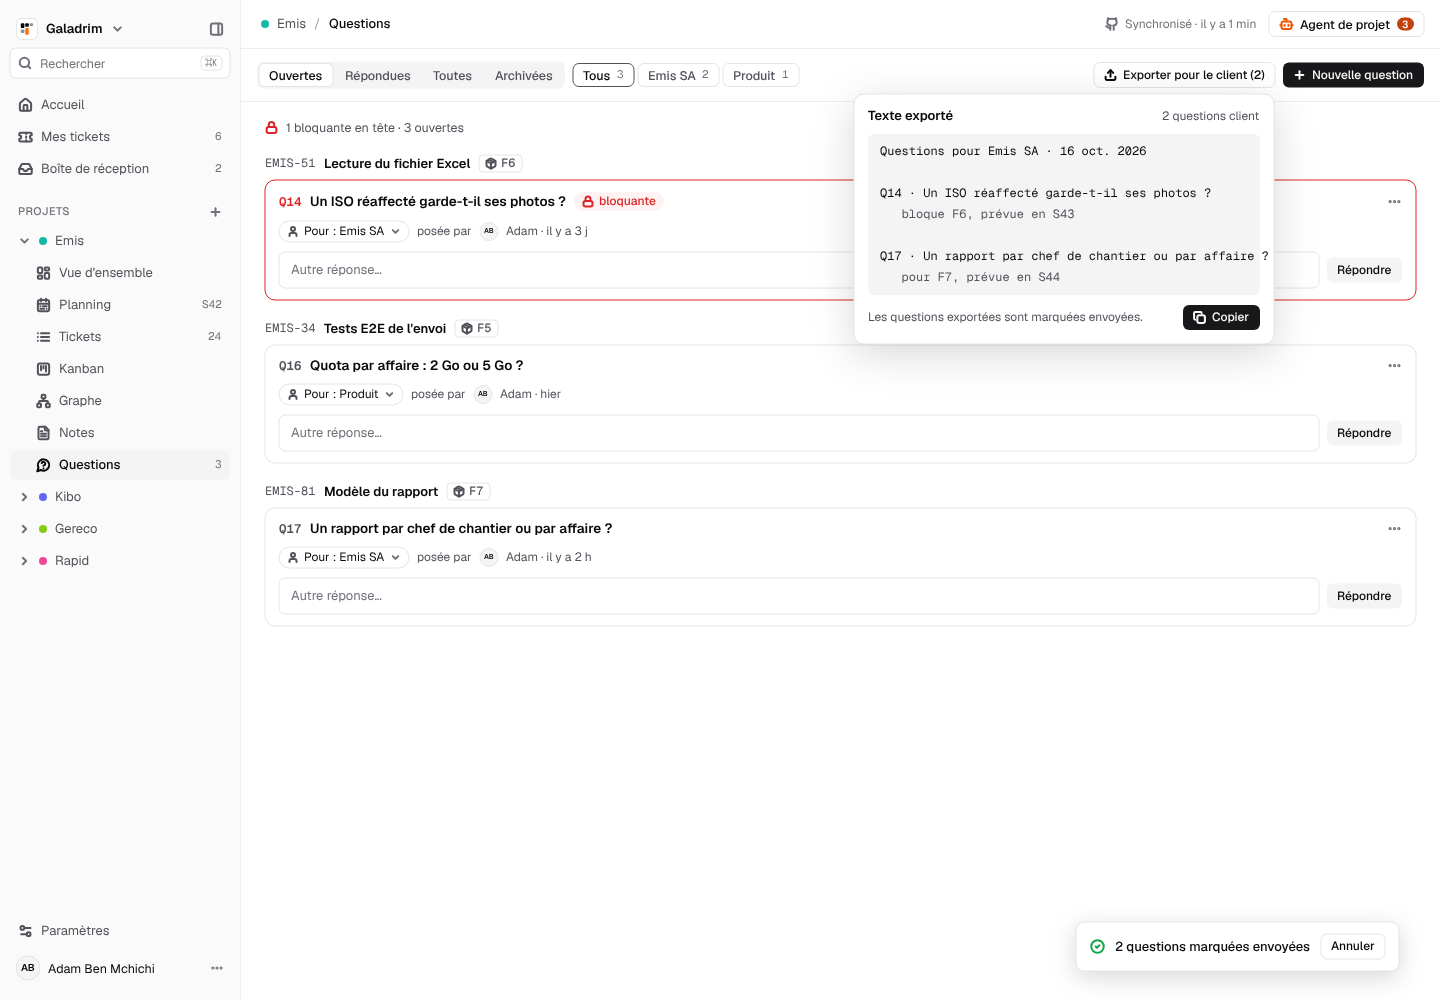
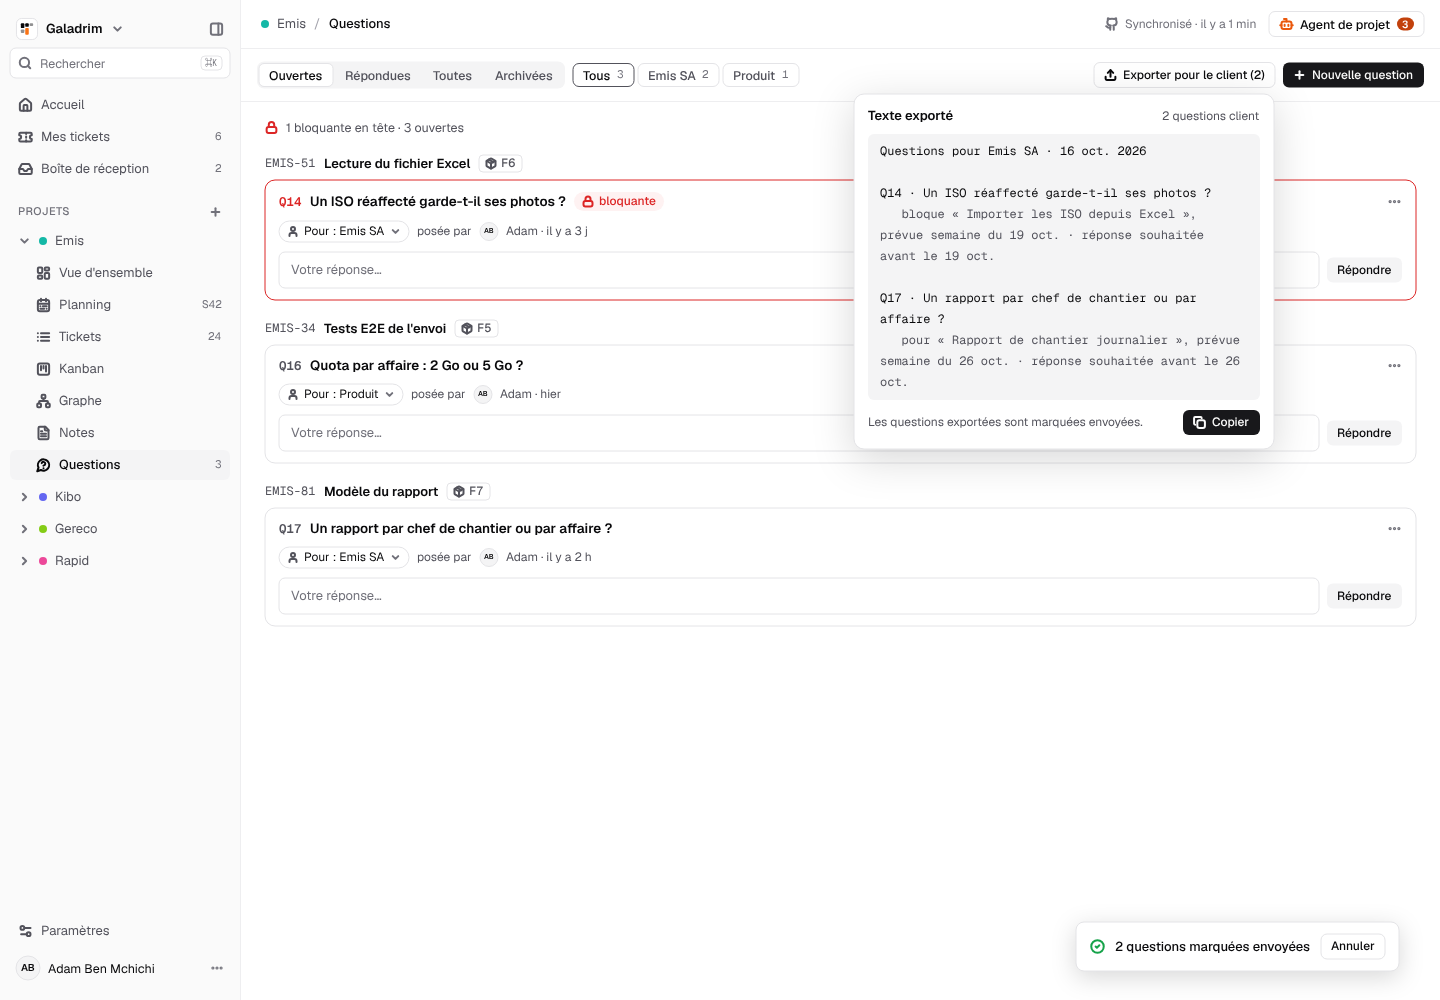
docs(design): P9 export lisible

Changed region(s): [[0.5938, 0.186, 0.875, 0.372], [0.625, 0.403, 0.875, 0.465]]

diff --git a/design/redesign/scripts/55-phase-27.js b/design/redesign/scripts/55-phase-27.js
@@ -287,7 +287,7 @@ S.qcard27 = (p, q) => { const C = S.C, sec = C.mfg;
   if (q.blocking) S.pill(t, "bloquante", C.red, C.redSoft, "lock"); S.spacer(t); S.icon(t, "more", 15, C.dim);
   const m = S.row(c, { gap: 8 }); const to = S.row(m, { gap: 5, pad: [3, 8], radius: 12, stroke: C.border }); S.icon(to, "user", 12, sec); S.txt(to, "Pour : " + q.to, { size: 12 }); S.icon(to, "chevDown", 11, C.dim);
   S.txt(m, "posée par", { size: 12, color: sec }); S.avatar(m, "AB", 18); S.txt(m, "Adam · " + q.age, { size: 12, color: sec });
-  const a = S.row(c, { fx: true, gap: 8 }); S.input(a, "Autre réponse…", { placeholder: true }); S.btn(a, "Répondre", "soft", { sm: true });
+  const a = S.row(c, { fx: true, gap: 8 }); S.input(a, "Votre réponse…", { placeholder: true }); S.btn(a, "Répondre", "soft", { sm: true });
   return g; };
 S.draw["p-questions"] = (x, y) => { const C = S.C, sec = C.mfg;
   const f = S.screen("P9 · Questions", x, y, 1440, 1000);
@@ -304,8 +304,11 @@ S.draw["p-questions"] = (x, y) => { const C = S.C, sec = C.mfg;
   const pop = S.col(f, { name: "export-preview", x: 1440 - 16 - 420 - 150, y: 48 + 46, w: 420, pad: 14, gap: 10, radius: 10, stroke: C.border, fill: C.card, shadow: 10 });
   const ph = S.row(pop, { fx: true, gap: 8 }); S.txt(ph, "Texte exporté", { size: 13, weight: 600 }); S.spacer(ph); S.txt(ph, "2 questions client", { size: 12, color: sec });
   const pre = S.col(pop, { fx: true, pad: [10, 12], gap: 6, radius: 6, fill: C.muted });
-  for (const l of ["Questions pour Emis SA · 16 oct. 2026", "", "Q14 · Un ISO réaffecté garde-t-il ses photos ?", "   bloque F6, prévue en S43", "", "Q17 · Un rapport par chef de chantier ou par affaire ?", "   pour F7, prévue en S44"])
-    S.txt(pre, l || " ", { name: "export-line", size: 12, mono: true, color: l.startsWith("   ") ? sec : C.fg });
+  const lines = [["Questions pour Emis SA · 16 oct. 2026"], [""], ["Q14 · Un ISO réaffecté garde-t-il ses photos ?"],
+    ["   bloque « Importer les ISO depuis Excel »,", sec], ["prévue semaine du 19 oct. · réponse souhaitée", sec], ["avant le 19 oct.", sec], [""],
+    ["Q17 · Un rapport par chef de chantier ou par"], ["affaire ?"],
+    ["   pour « Rapport de chantier journalier », prévue", sec], ["semaine du 26 oct. · réponse souhaitée avant le 26", sec], ["oct.", sec]];
+  for (const [l, color] of lines) S.txt(pre, l || " ", { name: "export-line", size: 12, mono: true, color: color || C.fg });
   const pf = S.row(pop, { fx: true, gap: 8 }); S.txt(pf, "Les questions exportées sont marquées envoyées.", { size: 12, color: sec, fill: true }); S.btn(pf, "Copier", "default", { sm: true, icon: "copy" });
   S.toast(f, "2 questions marquées envoyées", "Annuler", { x: 1440 - 24 - 340, y: 1000 - 24 - 54 });
   return f; };

diff --git a/design/redesign/cotes.md b/design/redesign/cotes.md
@@ -8004,7 +8004,7 @@ Exports : `exports/proposition-questions-dark.png` et `exports/proposition-quest
 53. « posée par » (x 417, y 224)
 54. « AB » (x 484, y 227)
 55. « Adam · il y a 3 j » (x 506, y 224)
-56. « Autre réponse… » (x 291, y 262)
+56. « Votre réponse… » (x 291, y 262)
 57. « Répondre » (x 1337, y 262,5)
 58. « EMIS-34 » (x 265, y 321)
 59. « Tests E2E de l'envoi » (x 324, y 320,5)
@@ -8015,7 +8015,7 @@ Exports : `exports/proposition-questions-dark.png` et `exports/proposition-quest
 64. « posée par » (x 411, y 387)
 65. « AB » (x 478, y 390)
 66. « Adam · hier » (x 500, y 387)
-67. « Autre réponse… » (x 291, y 425)
+67. « Votre réponse… » (x 291, y 425)
 68. « Répondre » (x 1337, y 425,5)
 69. « EMIS-81 » (x 265, y 484)
 70. « Modèle du rapport » (x 324, y 483,5)
@@ -8026,21 +8026,26 @@ Exports : `exports/proposition-questions-dark.png` et `exports/proposition-quest
 75. « posée par » (x 417, y 550)
 76. « AB » (x 484, y 553)
 77. « Adam · il y a 2 h » (x 506, y 550)
-78. « Autre réponse… » (x 291, y 588)
+78. « Votre réponse… » (x 291, y 588)
 79. « Répondre » (x 1337, y 588,5)
 80. « Texte exporté » (x 868, y 108)
 81. « 2 questions client » (x 1162, y 108,5)
 82. « Questions pour Emis SA · 16 oct. 2026 » (x 880, y 144)
 83. «   » (x 880, y 165)
 84. « Q14 · Un ISO réaffecté garde-t-il ses photos ? » (x 880, y 186)
-85. «    bloque F6, prévue en S43 » (x 880, y 207)
-86. «   » (x 880, y 228)
-87. « Q17 · Un rapport par chef de chantier ou par affaire ? » (x 880, y 249)
-88. «    pour F7, prévue en S44 » (x 880, y 270)
-89. « Les questions exportées sont marquées envoyées. » (x 868, y 310)
-90. « Copier » (x 1212, y 310)
-91. « 2 questions marquées envoyées » (x 1115, y 938,5)
-92. « Annuler » (x 1331, y 939)
+85. «    bloque « Importer les ISO depuis Excel », » (x 880, y 207)
+86. « prévue semaine du 19 oct. · réponse souhaitée » (x 880, y 228)
+87. « avant le 19 oct. » (x 880, y 249)
+88. «   » (x 880, y 270)
+89. « Q17 · Un rapport par chef de chantier ou par » (x 880, y 291)
+90. « affaire ? » (x 880, y 312)
+91. «    pour « Rapport de chantier journalier », prévue » (x 880, y 333)
+92. « semaine du 26 oct. · réponse souhaitée avant le 26 » (x 880, y 354)
+93. « oct. » (x 880, y 375)
+94. « Les questions exportées sont marquées envoyées. » (x 868, y 415)
+95. « Copier » (x 1212, y 415)
+96. « 2 questions marquées envoyées » (x 1115, y 938,5)
+97. « Annuler » (x 1331, y 939)
 
 ### Blocs
 
@@ -8195,7 +8200,7 @@ Coordonnées relatives au coin haut gauche de l'écran, en px. Couleurs en token
               - « Adam · il y a 3 j » — Geist 12 / 400, interligne 1,2, couleur `mfg` — x 506, y 224, 82 × 15
             - **box** (bloc) · x 279, y 252, 1123 × 36 · flex ligne, espacement 8, marges internes 0, alignement center/start · dimension remplit/auto
               - **input** (bloc) · x 279, y 252, 1040 × 36 · flex ligne, espacement 8, marges internes 0 12 0 12, alignement center/start · fond `bg` · bordure 1 `border` · rayon 6 · dimension remplit/fixe
-                - « Autre réponse… » — Geist 13 / 400, interligne 1,2, couleur `dim` — x 291, y 262, 91 × 16
+                - « Votre réponse… » — Geist 13 / 400, interligne 1,2, couleur `dim` — x 291, y 262, 91 × 16
               - **Button / soft** (bloc) · x 1327, y 257,5, 75 × 25 · flex ligne, espacement 6, marges internes 5 10 5 10, alignement center/center · fond `muted` · rayon 6
                 - « Répondre » — Geist 12 / 500, interligne 1,2, couleur `fg` — x 1337, y 262,5, 55 × 15
         - **group EMIS-34** (bloc) · x 265, y 320, 1151 × 143 · flex colonne, espacement 8, marges internes 0, alignement start/start · dimension remplit/auto
@@ -8221,7 +8226,7 @@ Coordonnées relatives au coin haut gauche de l'écran, en px. Couleurs en token
               - « Adam · hier » — Geist 12 / 400, interligne 1,2, couleur `mfg` — x 500, y 387, 62 × 15
             - **box** (bloc) · x 279, y 415, 1123 × 36 · flex ligne, espacement 8, marges internes 0, alignement center/start · dimension remplit/auto
               - **input** (bloc) · x 279, y 415, 1040 × 36 · flex ligne, espacement 8, marges internes 0 12 0 12, alignement center/start · fond `bg` · bordure 1 `border` · rayon 6 · dimension remplit/fixe
-                - « Autre réponse… » — Geist 13 / 400, interligne 1,2, couleur `dim` — x 291, y 425, 91 × 16
+                - « Votre réponse… » — Geist 13 / 400, interligne 1,2, couleur `dim` — x 291, y 425, 91 × 16
               - **Button / soft** (bloc) · x 1327, y 420,5, 75 × 25 · flex ligne, espacement 6, marges internes 5 10 5 10, alignement center/center · fond `muted` · rayon 6
                 - « Répondre » — Geist 12 / 500, interligne 1,2, couleur `fg` — x 1337, y 425,5, 55 × 15
         - **group EMIS-81** (bloc) · x 265, y 483, 1151 × 143 · flex colonne, espacement 8, marges internes 0, alignement start/start · dimension remplit/auto
@@ -8247,26 +8252,31 @@ Coordonnées relatives au coin haut gauche de l'écran, en px. Couleurs en token
               - « Adam · il y a 2 h » — Geist 12 / 400, interligne 1,2, couleur `mfg` — x 506, y 550, 86 × 15
             - **box** (bloc) · x 279, y 578, 1123 × 36 · flex ligne, espacement 8, marges internes 0, alignement center/start · dimension remplit/auto
               - **input** (bloc) · x 279, y 578, 1040 × 36 · flex ligne, espacement 8, marges internes 0 12 0 12, alignement center/start · fond `bg` · bordure 1 `border` · rayon 6 · dimension remplit/fixe
-                - « Autre réponse… » — Geist 13 / 400, interligne 1,2, couleur `dim` — x 291, y 588, 91 × 16
+                - « Votre réponse… » — Geist 13 / 400, interligne 1,2, couleur `dim` — x 291, y 588, 91 × 16
               - **Button / soft** (bloc) · x 1327, y 583,5, 75 × 25 · flex ligne, espacement 6, marges internes 5 10 5 10, alignement center/center · fond `muted` · rayon 6
                 - « Répondre » — Geist 12 / 500, interligne 1,2, couleur `fg` — x 1337, y 588,5, 55 × 15
-  - **export-preview** (bloc) · x 854, y 94, 420 × 250 · flex colonne, espacement 10, marges internes 14, alignement start/start · fond `card` · bordure 1 `border` · rayon 10
+  - **export-preview** (bloc) · x 854, y 94, 420 × 355 · flex colonne, espacement 10, marges internes 14, alignement start/start · fond `card` · bordure 1 `border` · rayon 10
     - **box** (bloc) · x 868, y 108, 392 × 16 · flex ligne, espacement 8, marges internes 0, alignement center/start · dimension remplit/auto
       - « Texte exporté » — Geist 13 / 600, interligne 1,2, couleur `fg` — x 868, y 108, 86 × 16
       - « 2 questions client » — Geist 12 / 400, interligne 1,2, couleur `mfg` — x 1162, y 108,5, 98 × 15
-    - **box** (bloc) · x 868, y 134, 392 × 161 · flex colonne, espacement 6, marges internes 10 12 10 12, alignement start/start · fond `muted` · rayon 6 · dimension remplit/auto
+    - **box** (bloc) · x 868, y 134, 392 × 266 · flex colonne, espacement 6, marges internes 10 12 10 12, alignement start/start · fond `muted` · rayon 6 · dimension remplit/auto
       - « Questions pour Emis SA · 16 oct. 2026 » — Geist Mono 12 / 400, interligne 1,2, couleur `fg` — x 880, y 144, 267 × 15
       - «   » — Geist Mono 12 / 400, interligne 1,2, couleur `fg` — x 880, y 165, 8 × 15
       - « Q14 · Un ISO réaffecté garde-t-il ses photos ? » — Geist Mono 12 / 400, interligne 1,2, couleur `fg` — x 880, y 186, 332 × 15
-      - «    bloque F6, prévue en S43 » — Geist Mono 12 / 400, interligne 1,2, couleur `mfg` — x 880, y 207, 195 × 15
-      - «   » — Geist Mono 12 / 400, interligne 1,2, couleur `fg` — x 880, y 228, 8 × 15
-      - « Q17 · Un rapport par chef de chantier ou par affaire ? » — Geist Mono 12 / 400, interligne 1,2, couleur `fg` — x 880, y 249, 389 × 15
-      - «    pour F7, prévue en S44 » — Geist Mono 12 / 400, interligne 1,2, couleur `mfg` — x 880, y 270, 180 × 15
-    - **box** (bloc) · x 868, y 305, 392 × 25 · flex ligne, espacement 8, marges internes 0, alignement center/start · dimension remplit/auto
-      - « Les questions exportées sont marquées envoyées. » — Geist 12 / 400, interligne 1,2, couleur `mfg` — x 868, y 310, 307 × 15
-      - **Button / default** (bloc) · x 1183, y 305, 77 × 25 · flex ligne, espacement 6, marges internes 5 10 5 10, alignement center/center · fond `primary` · rayon 6
-        - icône `copy` 13 px, `pfg` — x 1193, y 311, 13 × 13
-        - « Copier » — Geist 12 / 500, interligne 1,2, couleur `pfg` — x 1212, y 310, 38 × 15
+      - «    bloque « Importer les ISO depuis Excel », » — Geist Mono 12 / 400, interligne 1,2, couleur `mfg` — x 880, y 207, 317 × 15
+      - « prévue semaine du 19 oct. · réponse souhaitée » — Geist Mono 12 / 400, interligne 1,2, couleur `mfg` — x 880, y 228, 324 × 15
+      - « avant le 19 oct. » — Geist Mono 12 / 400, interligne 1,2, couleur `mfg` — x 880, y 249, 116 × 15
+      - «   » — Geist Mono 12 / 400, interligne 1,2, couleur `fg` — x 880, y 270, 8 × 15
+      - « Q17 · Un rapport par chef de chantier ou par » — Geist Mono 12 / 400, interligne 1,2, couleur `fg` — x 880, y 291, 317 × 15
+      - « affaire ? » — Geist Mono 12 / 400, interligne 1,2, couleur `fg` — x 880, y 312, 65 × 15
+      - «    pour « Rapport de chantier journalier », prévue » — Geist Mono 12 / 400, interligne 1,2, couleur `mfg` — x 880, y 333, 360 × 15
+      - « semaine du 26 oct. · réponse souhaitée avant le 26 » — Geist Mono 12 / 400, interligne 1,2, couleur `mfg` — x 880, y 354, 360 × 15
+      - « oct. » — Geist Mono 12 / 400, interligne 1,2, couleur `mfg` — x 880, y 375, 29 × 15
+    - **box** (bloc) · x 868, y 410, 392 × 25 · flex ligne, espacement 8, marges internes 0, alignement center/start · dimension remplit/auto
+      - « Les questions exportées sont marquées envoyées. » — Geist 12 / 400, interligne 1,2, couleur `mfg` — x 868, y 415, 307 × 15
+      - **Button / default** (bloc) · x 1183, y 410, 77 × 25 · flex ligne, espacement 6, marges internes 5 10 5 10, alignement center/center · fond `primary` · rayon 6
+        - icône `copy` 13 px, `pfg` — x 1193, y 416, 13 × 13
+        - « Copier » — Geist 12 / 500, interligne 1,2, couleur `pfg` — x 1212, y 415, 38 × 15
   - **toast** (bloc) · x 1076, y 922, 323 × 49 · flex ligne, espacement 10, marges internes 12 14 12 14, alignement center/start · fond `card` · bordure 1 `border` · rayon 8
     - icône `circleCheck` 15 px, `green` — x 1090, y 939, 15 × 15
     - « 2 questions marquées envoyées » — Geist 13 / 500, interligne 1,2, couleur `fg` — x 1115, y 938,5, 196 × 16
